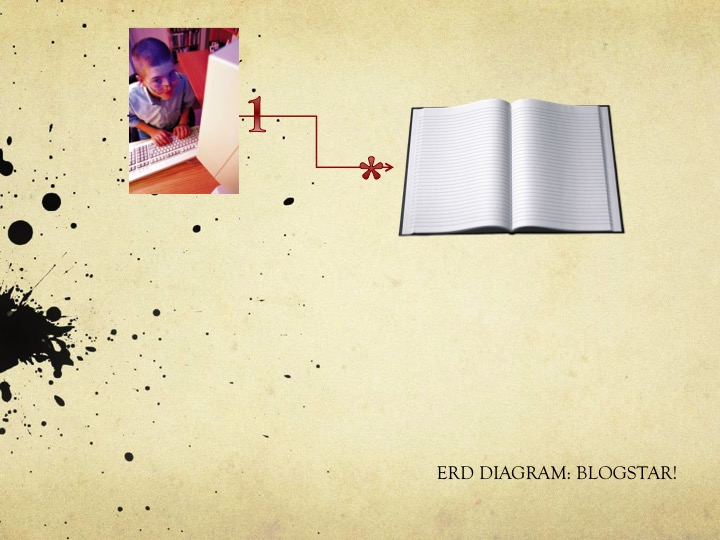
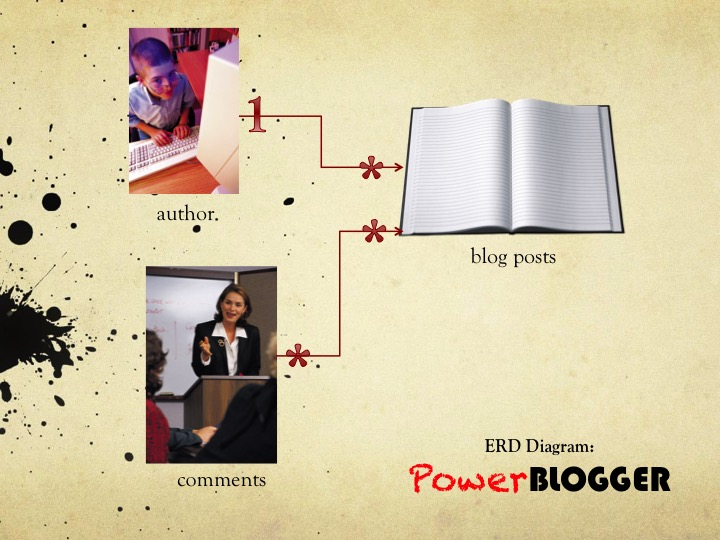
added comments to ERD diagram+README

diff --git a/server.js b/server.js
@@ -30,7 +30,7 @@ app.get("/posts", function(req, res) {
     else {
       var pTable = dataStoredInPosts;
       console.log(pTable);
-      res.render("index.ejs", {
+      res.render("index.ejs", {//sets data retrieved as "posts"
         posts: pTable,
       });
     }
@@ -84,7 +84,11 @@ app.get("/post/:id/edit", function(req, res) {
     }
   });
 });
+//adding a comment to a particular article... To do this I will require a simple form which allows someone to post to a given postID. There will then have to be an associated comments table in the same database. When someone writes a comment to a particular post it will have to update that comment's PostID (much like an author's ID would appear on the books description) that comment's body (and title in some blogs but usually not...) that comment's user..It should have an automatically generated timestamp. Once a comment is posted to a particular article IF any comments exists they must be displayed on that post's page (along with the user, title, timestamp). Ideally the homepage where all the articles are would have a link with "0 comments" or more written. By clicking on that page the user is directed to: post/:id/comments/ (Ideally there would be only one page which would allow editing or deleting of all the comments. This may be achieved by having a textbody editor appear for each comment who's postID matches the req.params.id.) In conclusion comments require the following: (id, tag, body, author, postID-set by looking at id of comments written). The count of comments associated with a specific blogpost may be achieved by comments.withpostID(?).length. 
+app.post("/post/:id/", function(req, res) {
+  var comID=req.params.id;
 
+})
 //upon click on edit this article Source: (index/show) Leads:(Home, Delete, Edit)
 app.put("/post/:id/", function(req, res) {
   var editID = req.params.id;

diff --git a/README.md b/README.md
@@ -1,4 +1,4 @@
-# Blog
+# Power Blogger
 A CRUD Web Application for Blogging.
 
 ## WHO NEEDS THIS BLOGGING WEB APPLICATION INTERFACE?
@@ -17,10 +17,15 @@ D - **Delete** your posts. Wrote about 2000 words about how much you love your n
 E - Experiencing technical difficulties? **EXPRESS** them to me and I can restart my server and still keep your posts.
 
 F - FIND all the posts you're looking for. Just ***Send*** me a ***Question*** and I'll ***Look*** for them and easily send it to you. 
+
+G - Glad you could read this article. Post comments to each Post (using a username of your choice, a title of your choice, an automatic timestamp, and we'll worry about which post you commented on! View a counter for how many comments have been made to your posts. 
 ##FUTURE DEVELOPMENTS
 - Within a certain amount of time hours, minutes, years? You will be able to comment on posts.
 
 - Easily Find out how many posts you made on a certain topic with a search feature! Or an instances thing? Or I might even add keywords (Add your keywords to the bottom and have the amount of each keyword used on your Posts page!).
+
+
+- My thoughts on how to add  a comment/features: adding a comment to a particular article... To do this I will require a simple form which allows someone to post to a given postID. There will then have to be an associated comments table in the same database. When someone writes a comment to a particular post it will have to update that comment's PostID (much like an author's ID would appear on the books description) that comment's body (and title in some blogs but usually not...) that comment's user..It should have an automatically generated timestamp. Once a comment is posted to a particular article IF any comments exists they must be displayed on that post's page (along with the user, title, timestamp). Ideally the homepage where all the articles are would have a link with "0 comments" or more written. By clicking on that page the user is directed to: post/:id/comments/ (Ideally there would be only one page which would allow editing or deleting of all the comments. This may be achieved by having a textbody editor appear for each comment who's postID matches the req.params.id.) In conclusion comments require the following: (id, tag, body, author, postID-set by looking at id of comments written). The count of comments associated with a specific blogpost may be achieved by comments.withpostID(?).length.  
 
 - Change the colors of your posts and customize the look and feel.
 
@@ -28,6 +33,4 @@ F - FIND all the posts you're looking for. Just ***Send*** me a ***Question*** a
 
 ## ERD DIAGRAMATIC DIAGRAM
 ![Image of ERD](https://github.com/zargold/Blog/blob/master/Slide1.jpg?raw=true"ERD")
-
-
 
